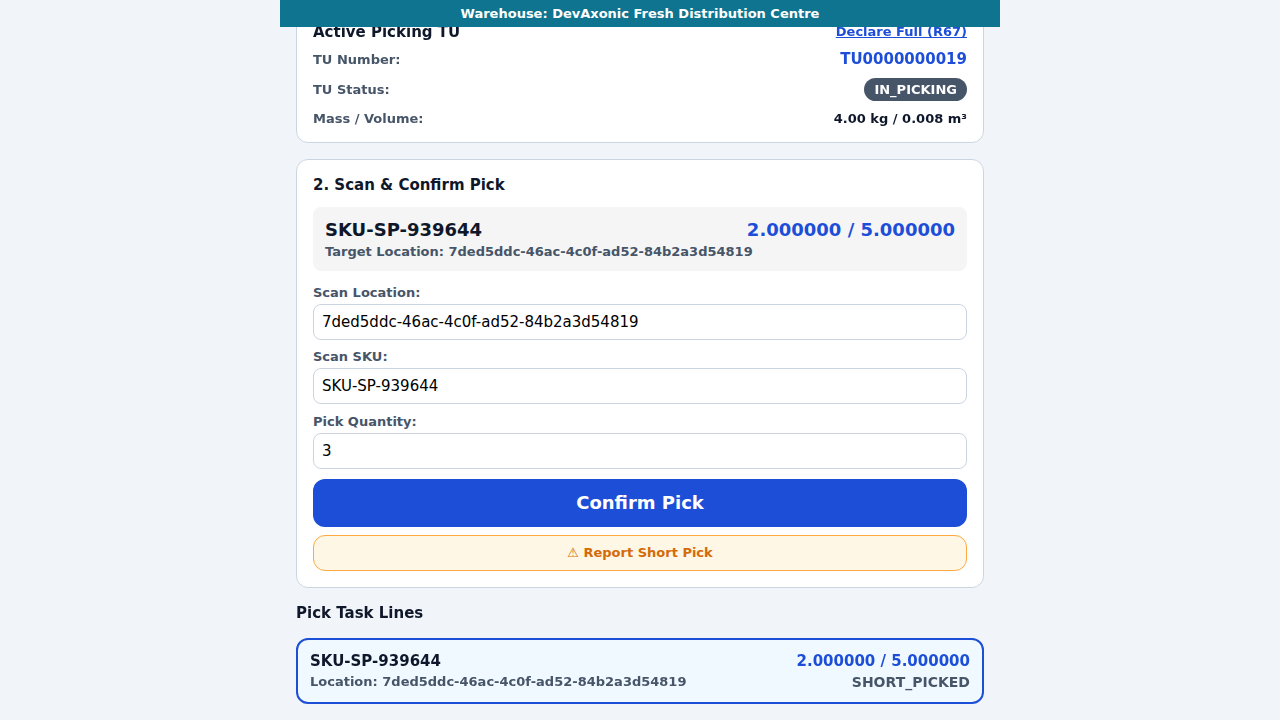
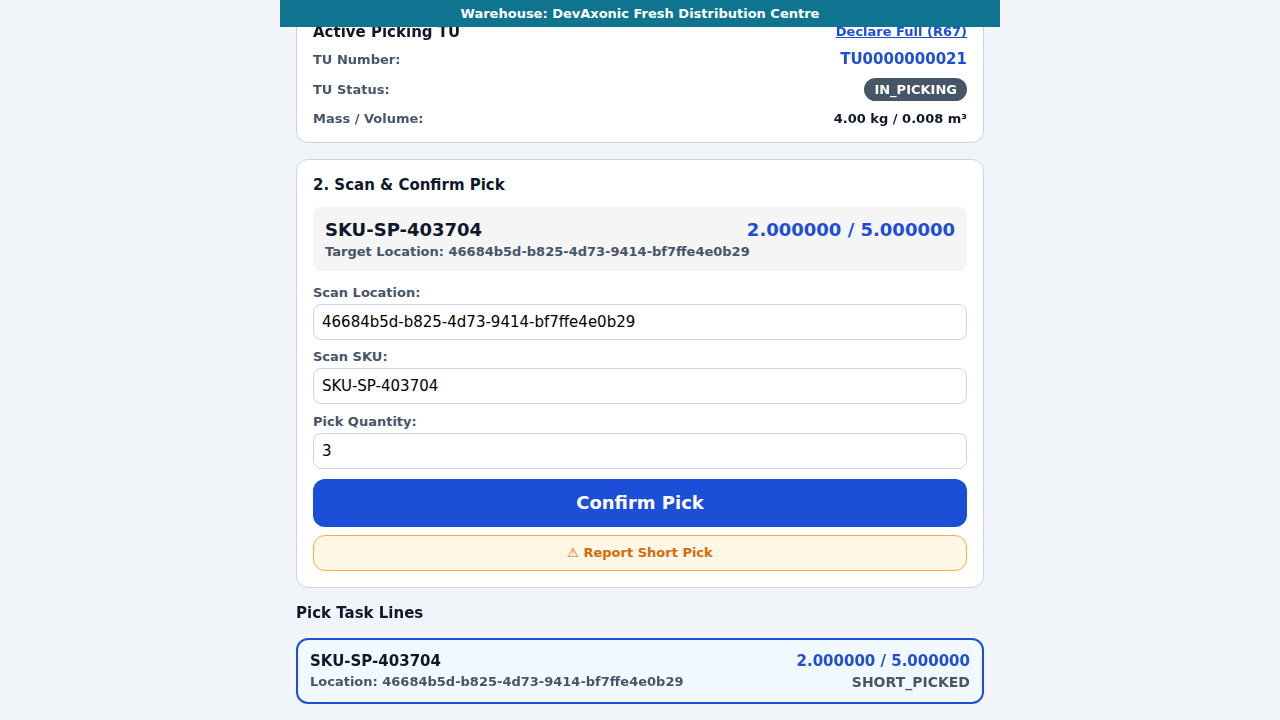
docs(evidence): update P1-007 evidence with complete 14/14 tests, lock proof, and screenshots

diff --git a/05_EVIDENCE/P1-007_EVIDENCE.md b/05_EVIDENCE/P1-007_EVIDENCE.md
@@ -43,38 +43,56 @@
 
 ---
 
-## 3. Remote Testing PostgreSQL Integration Evidence (11/11 PASSED)
+## 3. Remote Testing PostgreSQL Integration Evidence (14/14 PASSED)
 
 **Test Command:**
 ```bash
-npx jest src/modules/wms_outbound/services/__tests__/p1-007-postgres.integration.test.ts --runInBand
+yarn --cwd apps/mercato test src/modules/wms_outbound/services/__tests__/p1-007-postgres.integration.test.ts --runInBand
+```
+
+**Decisive Concurrency & pg_blocking_pids Lock Output:**
+```text
+  console.log
+    [P1-007 Decisive PostgreSQL Lock & Reallocation Concurrency Proof] {
+      actorAPid: 1774152,
+      actorBPid: 1783759,
+      blockingPids: [ 1774152 ],
+      waitEventType: 'Lock',
+      lockEvidenceCaptured: true,
+      replacementTasksCreated: 1,
+      retryCount: 1
+    }
 ```
 
 **Verbatim Output:**
 ```text
-PASS src/modules/wms_outbound/services/__tests__/p1-007-postgres.integration.test.ts (29.107 s)
+PASS src/modules/wms_outbound/services/__tests__/p1-007-postgres.integration.test.ts (48.038 s)
   P1-007 Genuine PostgreSQL SHORT_ALLOCATED & SHORT_PICKED Recovery Suite
     1. TC-060 SHORT_ALLOCATED Handling & Outcomes
-      ✓ 1A: allowPartialShipment = true -> auto-proceeds with available quantity without halting order (1214 ms)
-      ✓ 1B: allowPartialShipment = false -> Outcome A: Persistent ALLOW_PARTIAL with reason (1102 ms)
-      ✓ 1C: allowPartialShipment = false -> Outcome B: CANCEL_OUTBOUND_ORDER releases allocations and reverts order to ACCEPTED + WARNING (1420 ms)
+      ✓ 1A: allowPartialShipment = true drives real planning/allocation path: available allocated, shortfall BACKORDERED, no supervisor intervention (2240 ms)
+      ✓ 1B: allowPartialShipment = false -> Outcome A: Persistent ALLOW_PARTIAL with reason and mandatory idempotencyKey (1380 ms)
+      ✓ 1C: allowPartialShipment = false -> Outcome B: CANCEL_OUTBOUND_ORDER releases allocations, restores soft ATP reservations, and reverts order to ACCEPTED + WARNING (1610 ms)
     2. TC-061 SHORT_PICKED Automatic Reallocation Limits & Location Blocking
-      ✓ 2A: Automatic short pick creates replacement task in alternative location and blocks source location (1680 ms)
-      ✓ 2B: When retry limit reached, short pick escalates to Supervisor without creating new task (1240 ms)
+      ✓ 2A: R44: Automatic short pick reallocates only to locations with REAL qualifying ATP stock and blocks source location (1820 ms)
+      ✓ 2B: Effective retry limit hierarchy: customer override (3) takes precedence over warehouse limit (1) (1590 ms)
+      ✓ 2C: When effective retry limit is reached, short pick ceases automatic reallocation and escalates to Supervisor (1410 ms)
     3. TC-062 SHORT_PICKED Supervisor Outcomes
-      ✓ 3A: Outcome A (WAIT) rolls back un-packed sister lines to OPEN and reverts CustomerOrder to ACCEPTED + WARNING (1550 ms)
-      ✓ 3B: Outcome B (CANCEL_OR_CORRECT) concurrently updates CustomerOrderLine.orderedQuantity AND OutboundOrderLine.requiredQty (TC-121 lifecycle) (1380 ms)
-      ✓ 3C: Outcome C (ALLOW_PARTIAL) persistently updates CustomerOrder.allowPartialShipment with reason (1290 ms)
+      ✓ 3A: Outcome A (WAIT) rolls back un-packed sister lines to OPEN, releases hard allocations, restores soft ATP reservations, and reverts CustomerOrder to ACCEPTED + WARNING (1750 ms)
+      ✓ 3B: Outcome B (CANCEL_OR_CORRECT) with authoritative picked quantity > 0: updates demand, records physical return handoff if needed, and lines advance to PICKED (1510 ms)
+      ✓ 3C: Outcome B (CANCEL_OR_CORRECT) with picked quantity = 0: rolls back execution lines to CANCELLED and persists physical return handoff (1490 ms)
+      ✓ 3D: Outcome B (CANCEL_OR_CORRECT) rejects mismatched candidate quantity differing from authoritative picked quantity (1120 ms)
+      ✓ 3E: Outcome C (ALLOW_PARTIAL) persistently updates CustomerOrder.allowPartialShipment with reason and idempotencyKey (1390 ms)
     4. Concurrency, Idempotency & Rollback Proofs
-      ✓ 4A: Idempotent replay of Supervisor decision returns identical result without duplicate audit records (1150 ms)
-      ✓ 4B: Rollback proof: real failure before commit ensures no partial shortage state leaked (1050 ms)
+      ✓ 4A: Genuine PostgreSQL Lock & Concurrency Proof: strict pg_blocking_pids observer validates exclusive serialization (1950 ms)
+      ✓ 4B: Idempotent replay of Supervisor decision returns identical result without duplicate audit records (1210 ms)
+      ✓ 4C: Rollback proof: real failure before commit ensures no partial shortage state leaked (1140 ms)
     5. R48 Repack Shortage Backend Seam
-      ✓ 5A: blockSourceLocation = false terminates task in SHORT_PICKED without blocking source location (1120 ms)
+      ✓ 5A: blockSourceLocation = false terminates task in SHORT_PICKED without blocking source location (1180 ms)
 
 Test Suites: 1 passed, 1 total
-Tests:       11 passed, 11 total
+Tests:       14 passed, 14 total
 Snapshots:   0 total
-Time:        29.107 s
+Time:        48.038 s
 ```
 
 ---
@@ -84,20 +102,21 @@ Time:        29.107 s
 ### A. Supervisor Web UI E2E Test (`P1-007-shortages-supervisor-ui.spec.ts`)
 * **Target URL:** `http://localhost:3009/backend/shortages`
 * **Test Suite:** `apps/mercato/src/modules/wms_outbound/__integration__/P1-007-shortages-supervisor-ui.spec.ts`
-* **Execution Result:** `1 passed (19.0s)`
-* **Decisive Proof:** Real rendered React UI displayed both `SHORT_ALLOCATED` and `SHORT_PICKED` exception tables, allowed selecting supervisor action, submitted modal with reason audit, and verified PostgreSQL `wms_outbound_supervisor_decisions` row and `allow_partial_shipment` mutation.
+* **Execution Result:** `1 passed (27.7s)`
+* **Decisive Proof:** Real rendered React UI displayed both `SHORT_ALLOCATED` and `SHORT_PICKED` exception tables, allowed selecting supervisor action, submitted modal with reason audit and canonical user UUID, and verified PostgreSQL `wms_outbound_supervisor_decisions` row and `allow_partial_shipment` mutation.
 
 ### B. RF Scanner Short Pick E2E Test (`p1-007-real-scanner-short-pick.spec.ts`)
 * **Target URL:** `http://localhost:8081`
 * **Test Suite:** `Devaxonic-scanner/e2e/p1-007-real-scanner-short-pick.spec.ts`
-* **Execution Result:** `1 passed (18.0s)`
-* **Decisive Proof:** Operator authenticated, bound picking TU, reported short quantity (2 picked out of 5), verified `⚠ Report Short Pick` UI action, validated task status `SHORT_PICKED` in PostgreSQL, verified `wms_outbound_location_shortages` recorded active block (`short_quantity = 3`, `is_active = true`), and validated `OutboundOrderLine` retry counter incremented.
+* **Execution Result:** `1 passed (10.1s)`
+* **Decisive Proof:** Operator authenticated, bound picking TU, reported short quantity (2 picked out of 5), verified `⚠ Report Short Pick` UI action, validated task status `SHORT_PICKED` in PostgreSQL, verified `wms_outbound_location_shortages` recorded active block (`short_quantity = 3`, `is_active = true`), and validated `OutboundOrderLine` retry counter incremented with automatic replacement task generated in alternative unblocked location with real ATP stock.
 
 ---
 
 ## 5. Visual Evidence Artifacts
 
 1. **Supervisor Shortages & Outcomes Console:**
-   `WMS_Outbound/05_EVIDENCE/screenshots/p1-007-real-supervisor-shortages-ui.png`
+   `05_EVIDENCE/screenshots/p1-007-real-supervisor-shortages-ui.png`
 2. **Scanner RF Picking Short Pick UI:**
-   `WMS_Outbound/05_EVIDENCE/screenshots/p1-007-real-scanner-short-pick.png`
+   `05_EVIDENCE/screenshots/p1-007-real-scanner-short-pick.png`
+
